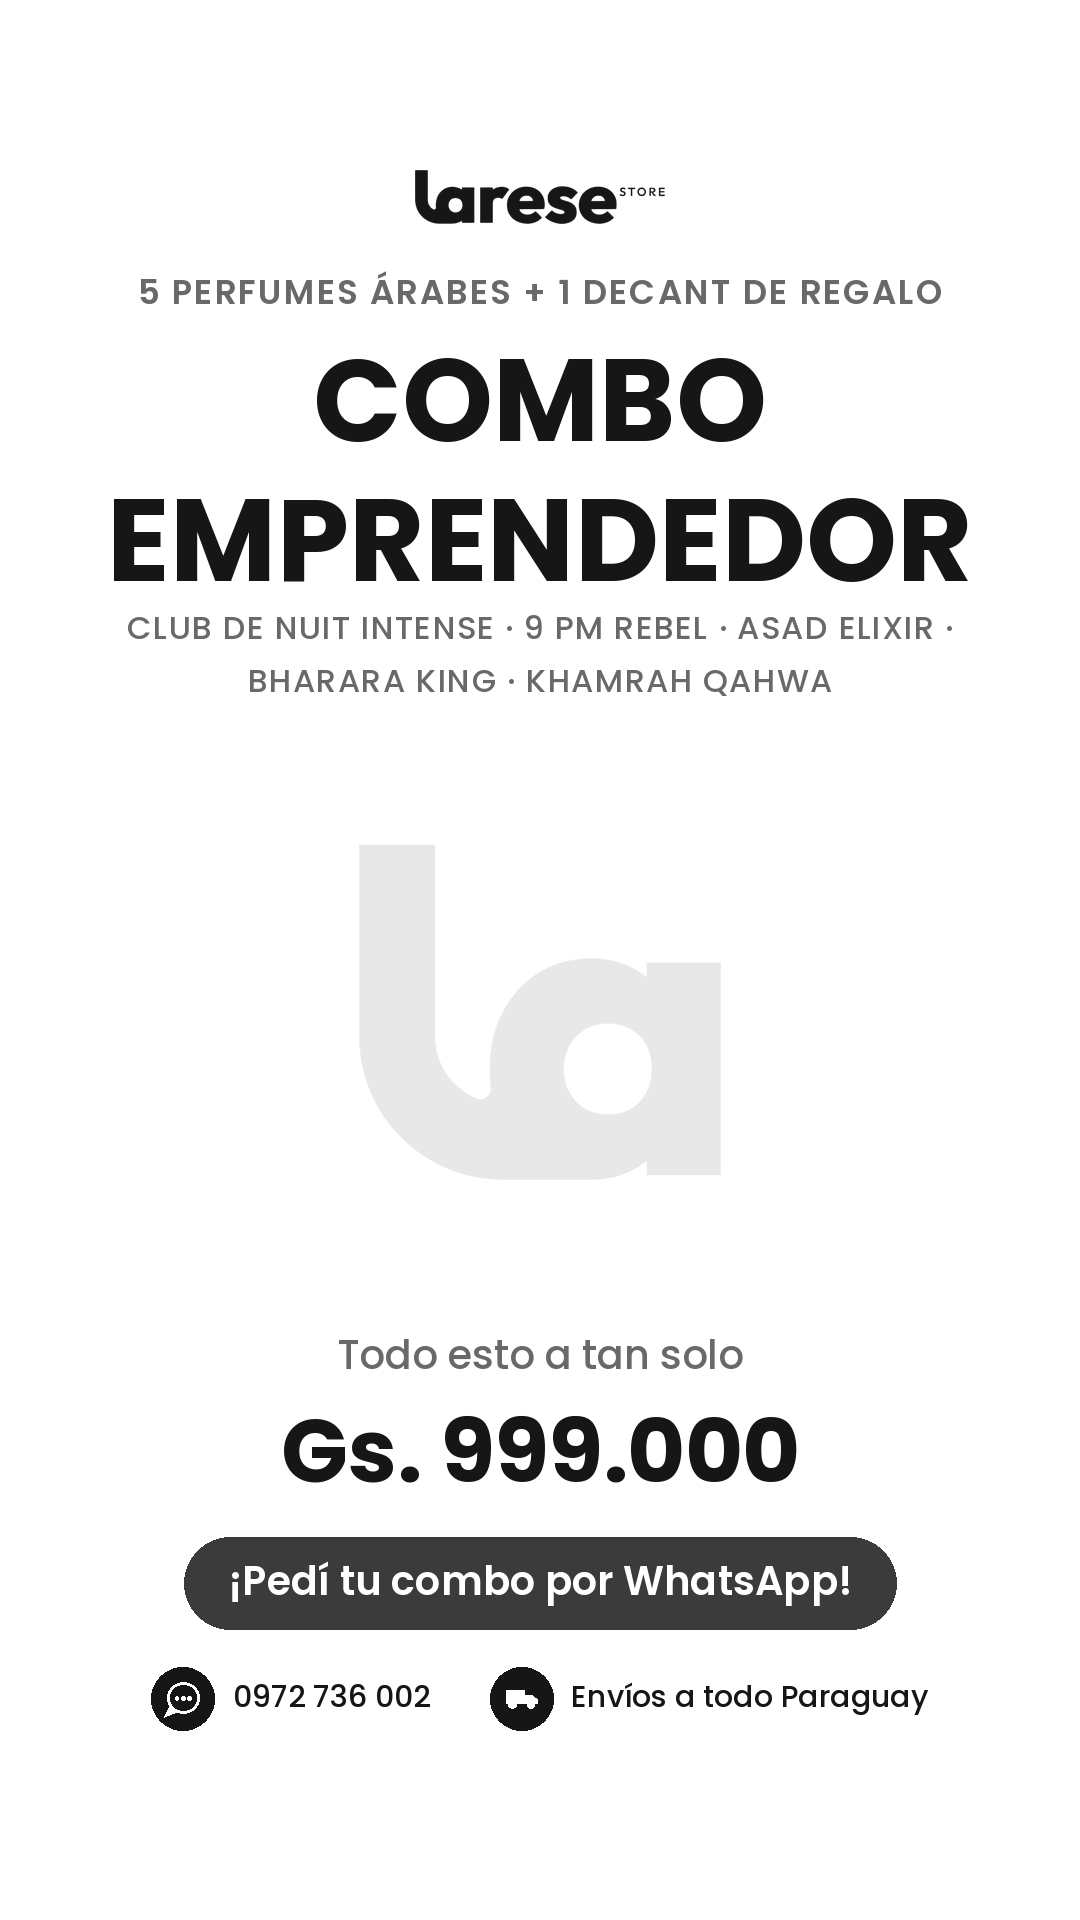
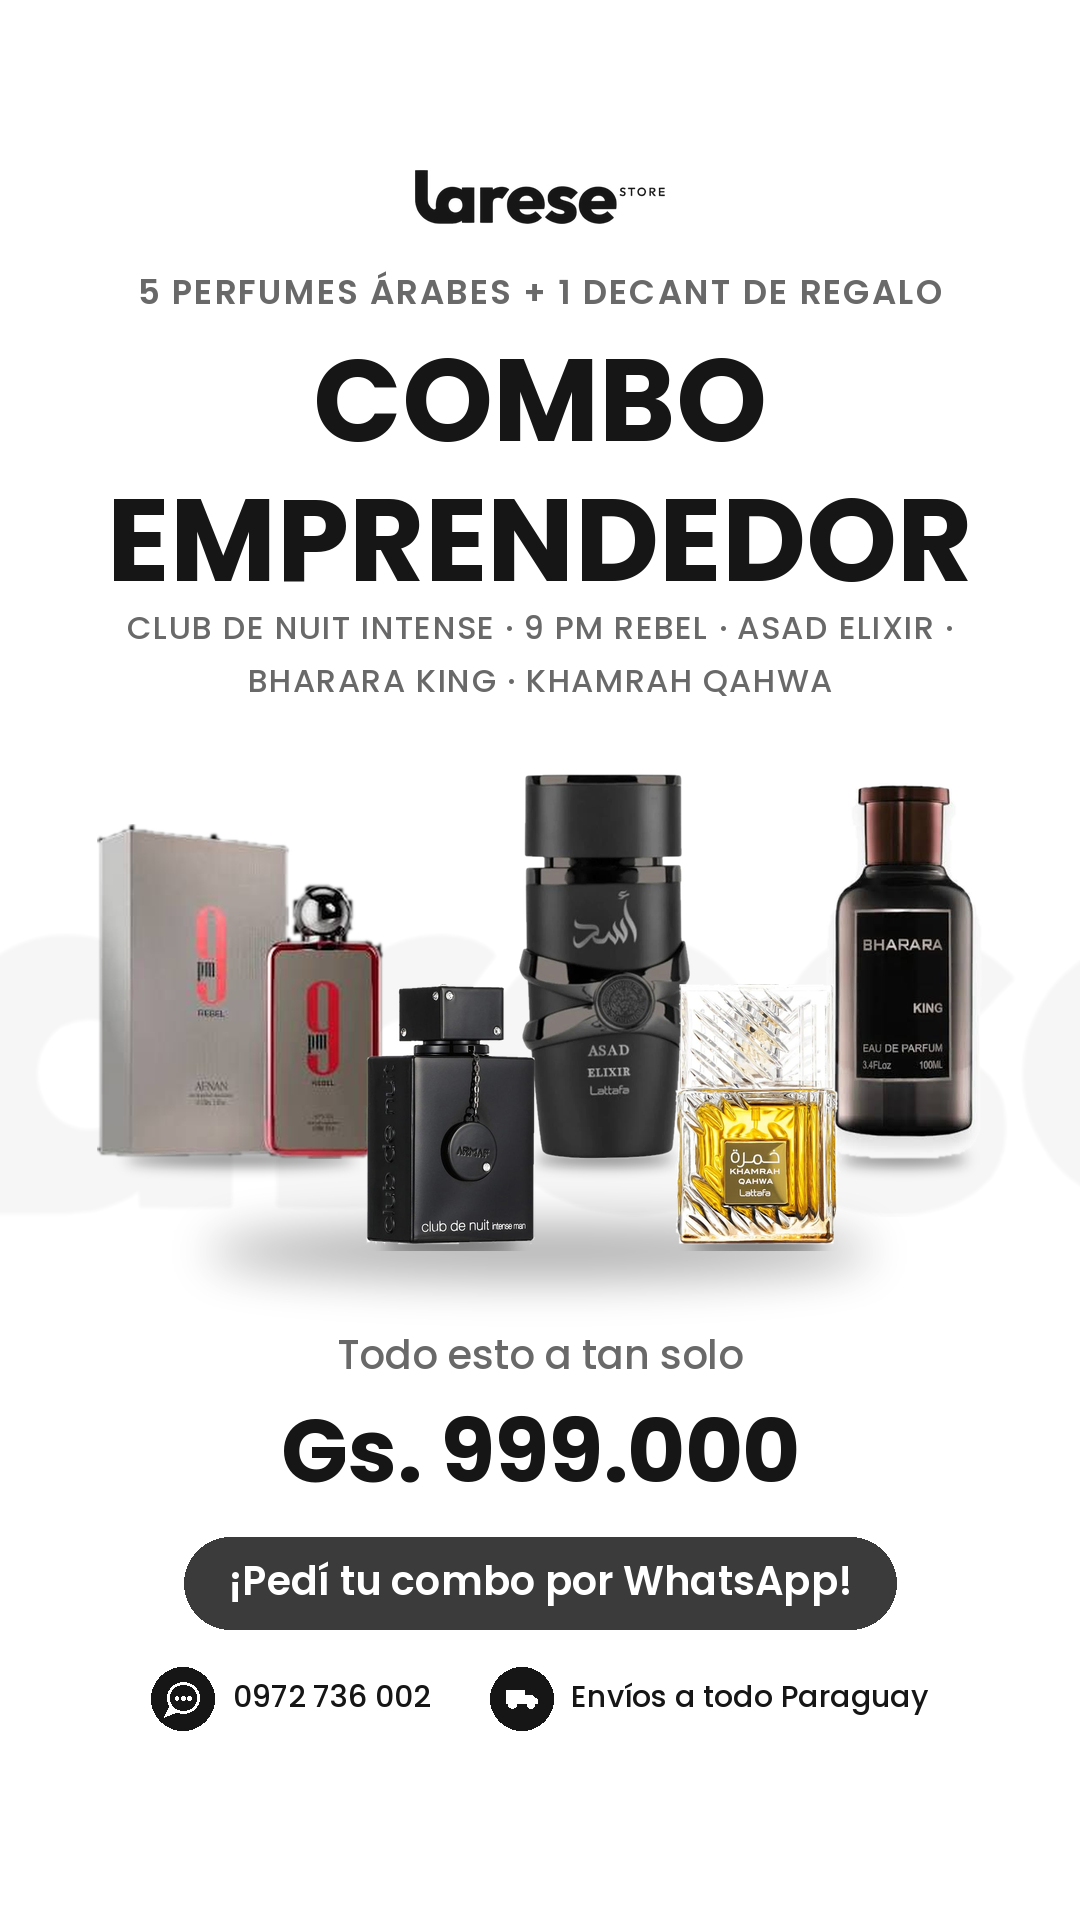
Add product photos to Combo Emprendedor ad
Claude-Session: https://claude.ai/code/session_01DnzkNPbSXQQMqRqh5ZzW49

Changed region(s): [[0.0917, 0.4062, 0.9167, 0.6875]]

diff --git a/anuncio-combo-emprendedor/fuente/recortar.py b/anuncio-combo-emprendedor/fuente/recortar.py
@@ -1,0 +1,36 @@
+"""Recorta las 5 fotos del combo (rellenando el fondo desde los bordes con umbral bajo)."""
+import os
+import numpy as np
+from PIL import Image, ImageDraw, ImageFilter
+
+CARPETA = os.path.dirname(os.path.dirname(os.path.abspath(__file__)))
+# nombre: (archivo, umbral, fondo oscuro)
+fotos = {
+    "asad-elixir": ("asad-elixir.png", 10, False),
+    "bharara-king": ("bharara-king.jpg", 10, False),
+    "9pm-rebel": ("9pm-rebel.jpg", 22, True),
+    "khamrah-qahwa": ("khamrah-qahwa.jpg", 6, False),
+    "club-de-nuit": ("club-de-nuit.jpg", 10, False),
+}
+MARCA = (1, 254, 3)
+for nombre, (f, umbral, oscuro) in fotos.items():
+    im = Image.open(os.path.join(CARPETA, "fotos", f)).convert("RGB")
+    if nombre == "asad-elixir":  # solo el frasco, sin la caja
+        im = im.crop((570, 0, im.width, im.height))
+    base = im.copy()
+    w, h = base.size
+    paso = max(1, w // 80)
+    semillas = [(x, 0) for x in range(0, w, paso)] + [(x, h - 1) for x in range(0, w, paso)] \
+             + [(0, y) for y in range(0, h, paso)] + [(w - 1, y) for y in range(0, h, paso)]
+    for s in semillas:
+        px = base.getpixel(s)
+        fondo_ok = max(px) < 30 if oscuro else min(px) > 225
+        if px != MARCA and fondo_ok:
+            ImageDraw.floodfill(base, s, MARCA, thresh=umbral)
+    fondo = np.all(np.asarray(base) == MARCA, axis=-1)
+    alfa = Image.fromarray(np.where(fondo, 0, 255).astype(np.uint8))
+    alfa = alfa.filter(ImageFilter.MaxFilter(3)).filter(ImageFilter.MinFilter(5)).filter(ImageFilter.GaussianBlur(1))
+    out = im.convert("RGBA"); out.putalpha(alfa)
+    out = out.crop(alfa.point(lambda v: 255 if v > 40 else 0).getbbox())
+    out.save(os.path.join(CARPETA, "recortes", f"{nombre}.png"))
+    print(nombre, out.size)

diff --git a/anuncio-combo-emprendedor/fuente/composicion.py b/anuncio-combo-emprendedor/fuente/composicion.py
@@ -1,0 +1,38 @@
+"""Arma combo.png con los 5 perfumes: 3 atrás separados y 2 adelante en los huecos."""
+import os
+from PIL import Image, ImageDraw, ImageFilter
+CARPETA = os.path.dirname(os.path.dirname(os.path.abspath(__file__)))
+U = 900  # alto de referencia
+
+def cargar(nombre, alto):
+    p = Image.open(os.path.join(CARPETA, "recortes", f"{nombre}.png")).convert("RGBA")
+    return p.resize((int(p.width * alto / p.height), int(alto)), Image.LANCZOS)
+
+atras = [cargar("9pm-rebel", U * 0.80), cargar("asad-elixir", U * 0.92), cargar("bharara-king", U * 0.90)]
+adelante = [cargar("club-de-nuit", U * 0.62), cargar("khamrah-qahwa", U * 0.62)]
+hueco = int(adelante[0].width * 0.80)
+W = sum(p.width for p in atras) + hueco * 2
+base_atras = int(U * 0.92)
+H = base_atras + int(U * 0.22)
+lienzo = Image.new("RGBA", (W, H), (0, 0, 0, 0))
+
+def sombra(x, y, ancho):
+    s = Image.new("L", (W, H), 0)
+    ImageDraw.Draw(s).ellipse((x + ancho * 0.1, y - 14, x + ancho * 0.9, y + 14), fill=120)
+    s = s.filter(ImageFilter.GaussianBlur(14))
+    capa = Image.new("RGBA", (W, H), (0, 0, 0, 0)); capa.putalpha(s)
+    lienzo.alpha_composite(capa)
+
+x, xs = 0, []
+for p in atras:
+    sombra(x, base_atras, p.width)
+    lienzo.alpha_composite(p, (x, base_atras - p.height))
+    xs.append(x); x += p.width + hueco
+for i, p in enumerate(adelante):
+    c = xs[i] + atras[i].width + hueco / 2
+    px = int(c - p.width / 2)
+    sombra(px, H - 16, p.width)
+    lienzo.alpha_composite(p, (px, H - 16 - p.height))
+lienzo = lienzo.crop(lienzo.getbbox())
+lienzo.save(os.path.join(CARPETA, "combo.png"))
+print(lienzo.size)
